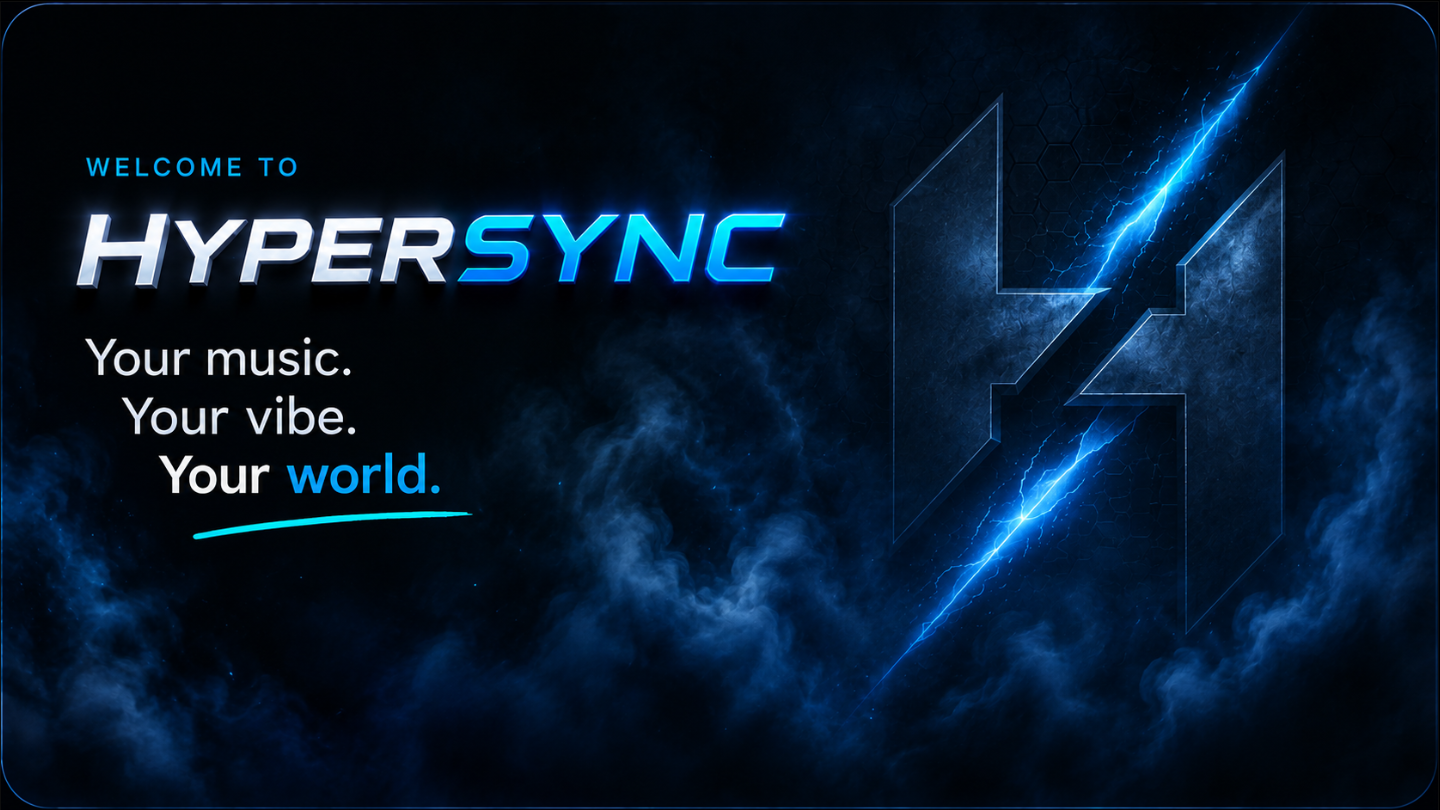
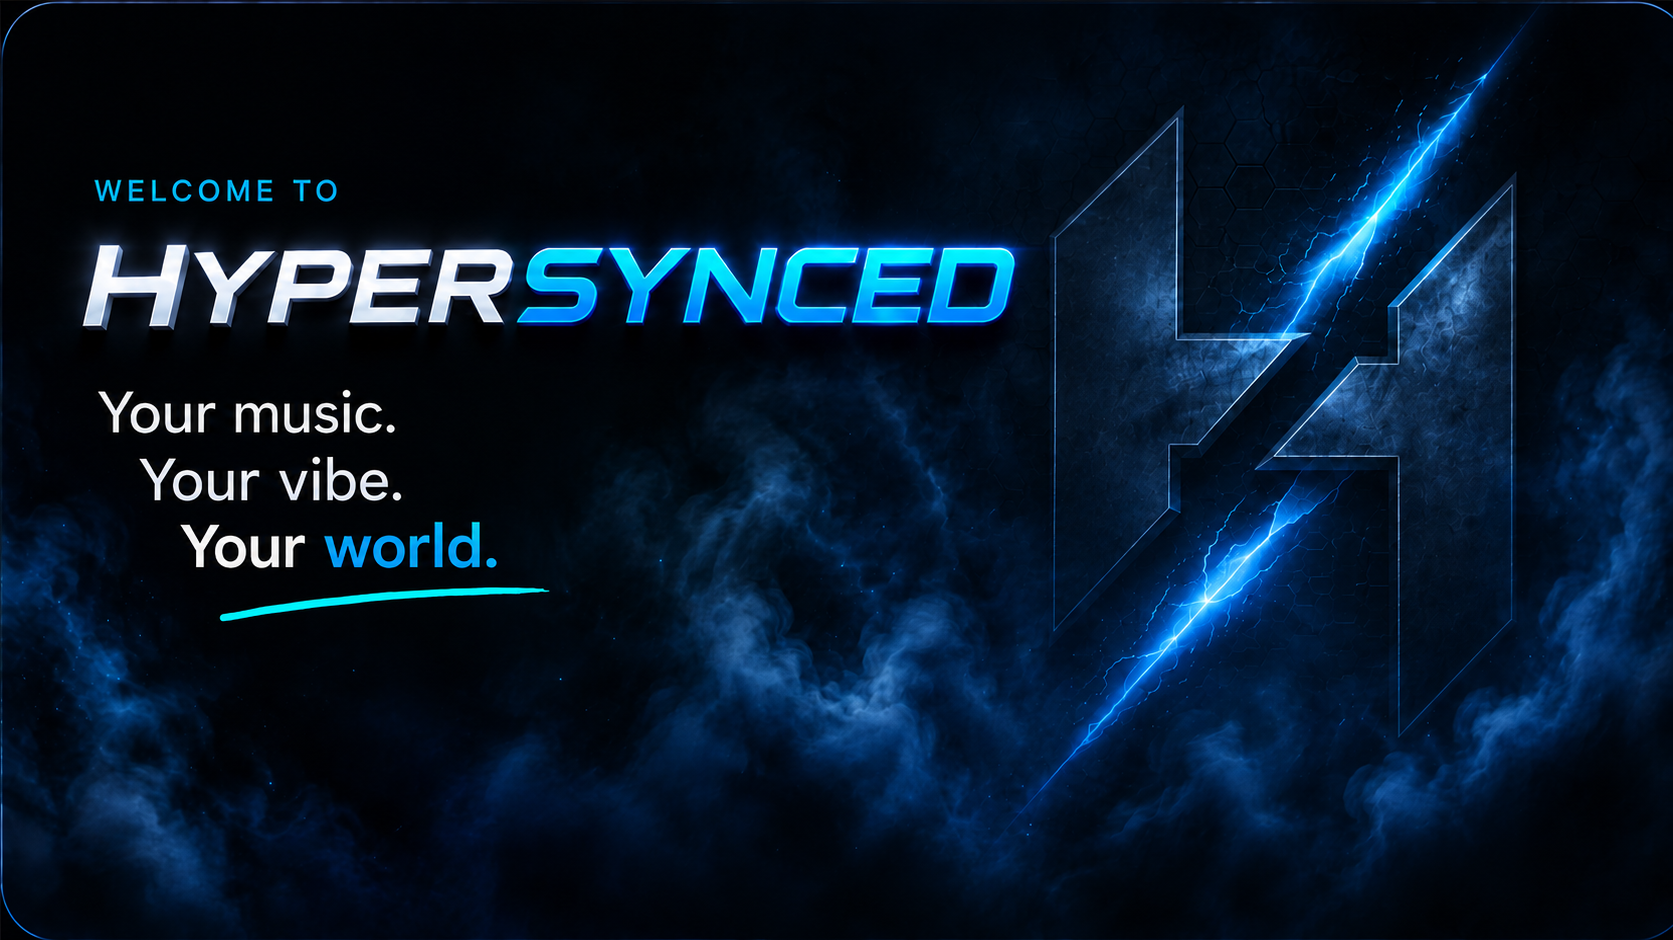
name changed to Hypersynced

diff --git a/frontend/src/components/profile/EditProfileModal.jsx b/frontend/src/components/profile/EditProfileModal.jsx
@@ -232,7 +232,7 @@ export default function EditProfileModal({
         <header className="hs-edit-modal__header">
           <div>
             <span className="hs-eyebrow">
-              HYPERSYNC IDENTITY
+              HYPERSYNCED IDENTITY
             </span>
 
             <h2 id="edit-profile-title">
@@ -241,7 +241,7 @@ export default function EditProfileModal({
 
             <p>
               Make your corner of
-              HyperSync unmistakably yours.
+              HyperSynced unmistakably yours.
             </p>
           </div>
 
@@ -478,7 +478,7 @@ export default function EditProfileModal({
                 </strong>
 
                 <p>
-                  Your avatar, name,
+                  Your avatar,
                   username, follower count,
                   and account age always
                   remain discoverable.

diff --git a/frontend/src/components/pages/ProfilePage.jsx b/frontend/src/components/pages/ProfilePage.jsx
@@ -176,7 +176,7 @@ export default function ProfilePage({
           />
 
           <h2>
-            Your HyperSync identity
+            Your HyperSynced identity
             starts here.
           </h2>
 
@@ -254,7 +254,7 @@ export default function ProfilePage({
 
         <div className="hs-profile-hero__identity">
           <span className="hs-eyebrow">
-            YOUR HYPERSYNC PROFILE
+            YOUR HYPERSYNCED PROFILE
           </span>
 
           <h1>{name}</h1>

diff --git a/frontend/src/App.jsx b/frontend/src/App.jsx
@@ -1530,7 +1530,7 @@ function AuthOverlay({
           <h2 id="auth-title">
             {isCreate
               ? "Create your HyperSync account"
-              : "Welcome to HyperSync"}
+              : "Welcome to HyperSynced"}
           </h2>
 
           <p>

diff --git a/frontend/src/components/layout/DesktopTopbar.jsx b/frontend/src/components/layout/DesktopTopbar.jsx
@@ -33,7 +33,7 @@ function DesktopTopbar({
   return (
     <header className="desktop-topbar">
       <div className="desktop-topbar__title">
-        <span>HyperSync</span>
+        <span>HyperSynced</span>
 
         <h1>
           {PAGE_TITLES[activePage]}

diff --git a/frontend/src/api/client.js b/frontend/src/api/client.js
@@ -14,7 +14,7 @@ let refreshInFlight = null;
 
 export function formatApiError(detail) {
   if (!detail) {
-    return "HyperSync request failed.";
+    return "HyperSynced request failed.";
   }
 
   if (typeof detail === "string") {

diff --git a/frontend/src/components/pages/SearchPage.jsx b/frontend/src/components/pages/SearchPage.jsx
@@ -463,7 +463,7 @@ function SearchPage({
             />
 
             <strong>
-              Search HyperSync
+              Search Hypersynced
             </strong>
 
             <p>
